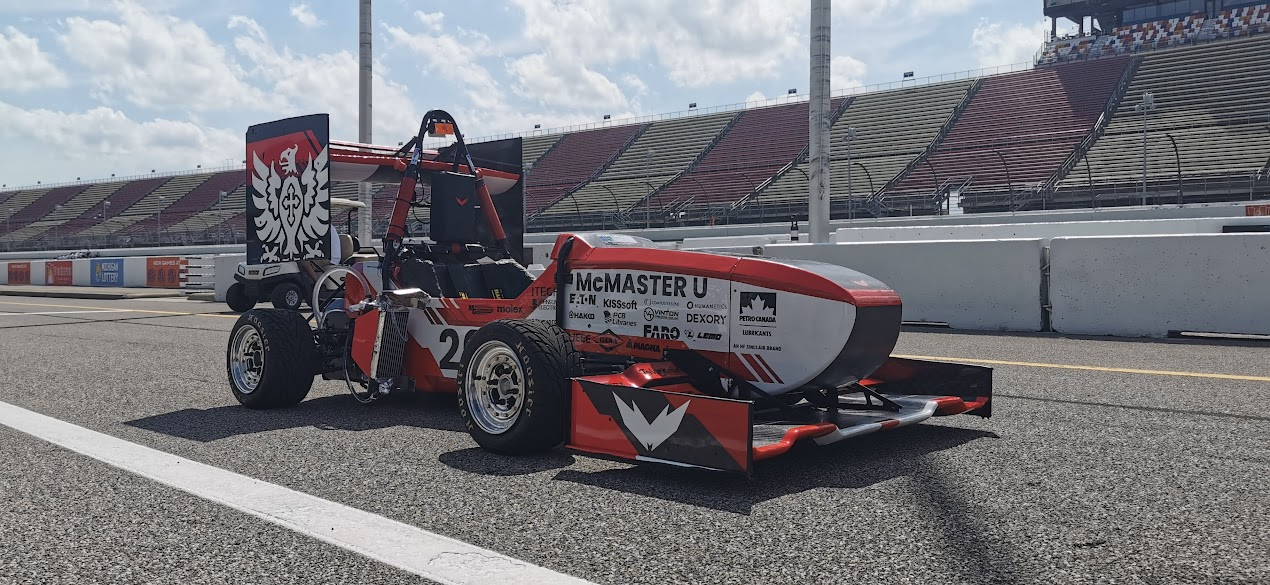
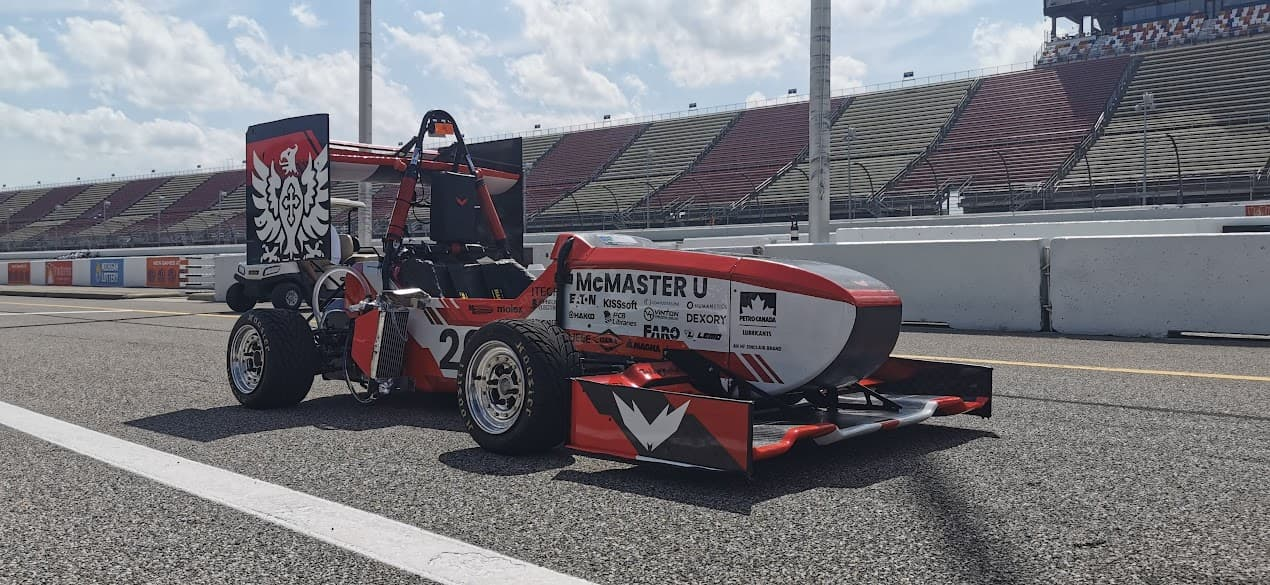
75% compression test

diff --git a/docs/_galleries/gallery-1.md b/docs/_galleries/gallery-1.md
@@ -3,44 +3,38 @@ layout: gallery
 title: MACFE 2025
 thumbnail: /gallery2025/1.PNG
 images:
-    - /gallery2025/1.PNG
-    - /gallery2025/2.PNG
-    - /gallery2025/3.PNG
-    - /gallery2025/4.PNG
-    - /gallery2025/5.PNG
-    - /gallery2025/6.PNG
-    - /gallery2025/1.JPEG
-    - /gallery2025/2.JPEG
-    - /gallery2025/3.JPEG
-    - /gallery2025/4.JPEG
-    - /gallery2025/5.JPEG
-    - /gallery2025/6.JPEG
-    - /gallery2025/7.JPEG
+    - /gallery2025/1.jpg
+    - /gallery2025/2.jpg
+    - /gallery2025/3.jpg
+    - /gallery2025/4.jpg
+    - /gallery2025/5.jpg
+    - /gallery2025/6.jpg
+    - /gallery2025/7.jpg
     - /gallery2025/8.jpg
     - /gallery2025/9.jpg
     - /gallery2025/10.jpg
     - /gallery2025/11.jpg
-    - /gallery2025/12.JPEG
-    - /gallery2025/13.PNG
-    - /gallery2025/14.JPEG
-    - /gallery2025/15.JPEG
-    - /gallery2025/16.JPEG
-    - /gallery2025/17.JPEG
-    - /gallery2025/18.JPEG
-    - /gallery2025/19.JPEG
-    - /gallery2025/20.JPEG
-    - /gallery2025/21.JPEG
-    - /gallery2025/22.JPEG
-    - /gallery2025/23.JPEG
-    - /gallery2025/24.JPEG
-    - /gallery2025/25.JPEG
-    - /gallery2025/26.JPEG
-    - /gallery2025/27.JPEG
-    - /gallery2025/28.JPEG
-    - /gallery2025/29.JPEG
-    - /gallery2025/30.JPEG
-    - /gallery2025/31.JPEG
-    - /gallery2025/32.JPEG
+    - /gallery2025/12.jpg
+    - /gallery2025/13.jpg
+    - /gallery2025/14.jpg
+    - /gallery2025/15.jpg
+    - /gallery2025/16.jpg
+    - /gallery2025/17.jpg
+    - /gallery2025/18.jpg
+    - /gallery2025/19.jpg
+    - /gallery2025/20.jpg
+    - /gallery2025/21.jpg
+    - /gallery2025/22.jpg
+    - /gallery2025/23.jpg
+    - /gallery2025/24.jpg
+    - /gallery2025/25.jpg
+    - /gallery2025/26.jpg
+    - /gallery2025/27.jpg
+    - /gallery2025/28.jpg
+    - /gallery2025/29.jpg
+    - /gallery2025/30.jpg
+    - /gallery2025/31.jpg
+    - /gallery2025/32.jpg
     - /gallery2025/33.jpg
 ---
 
